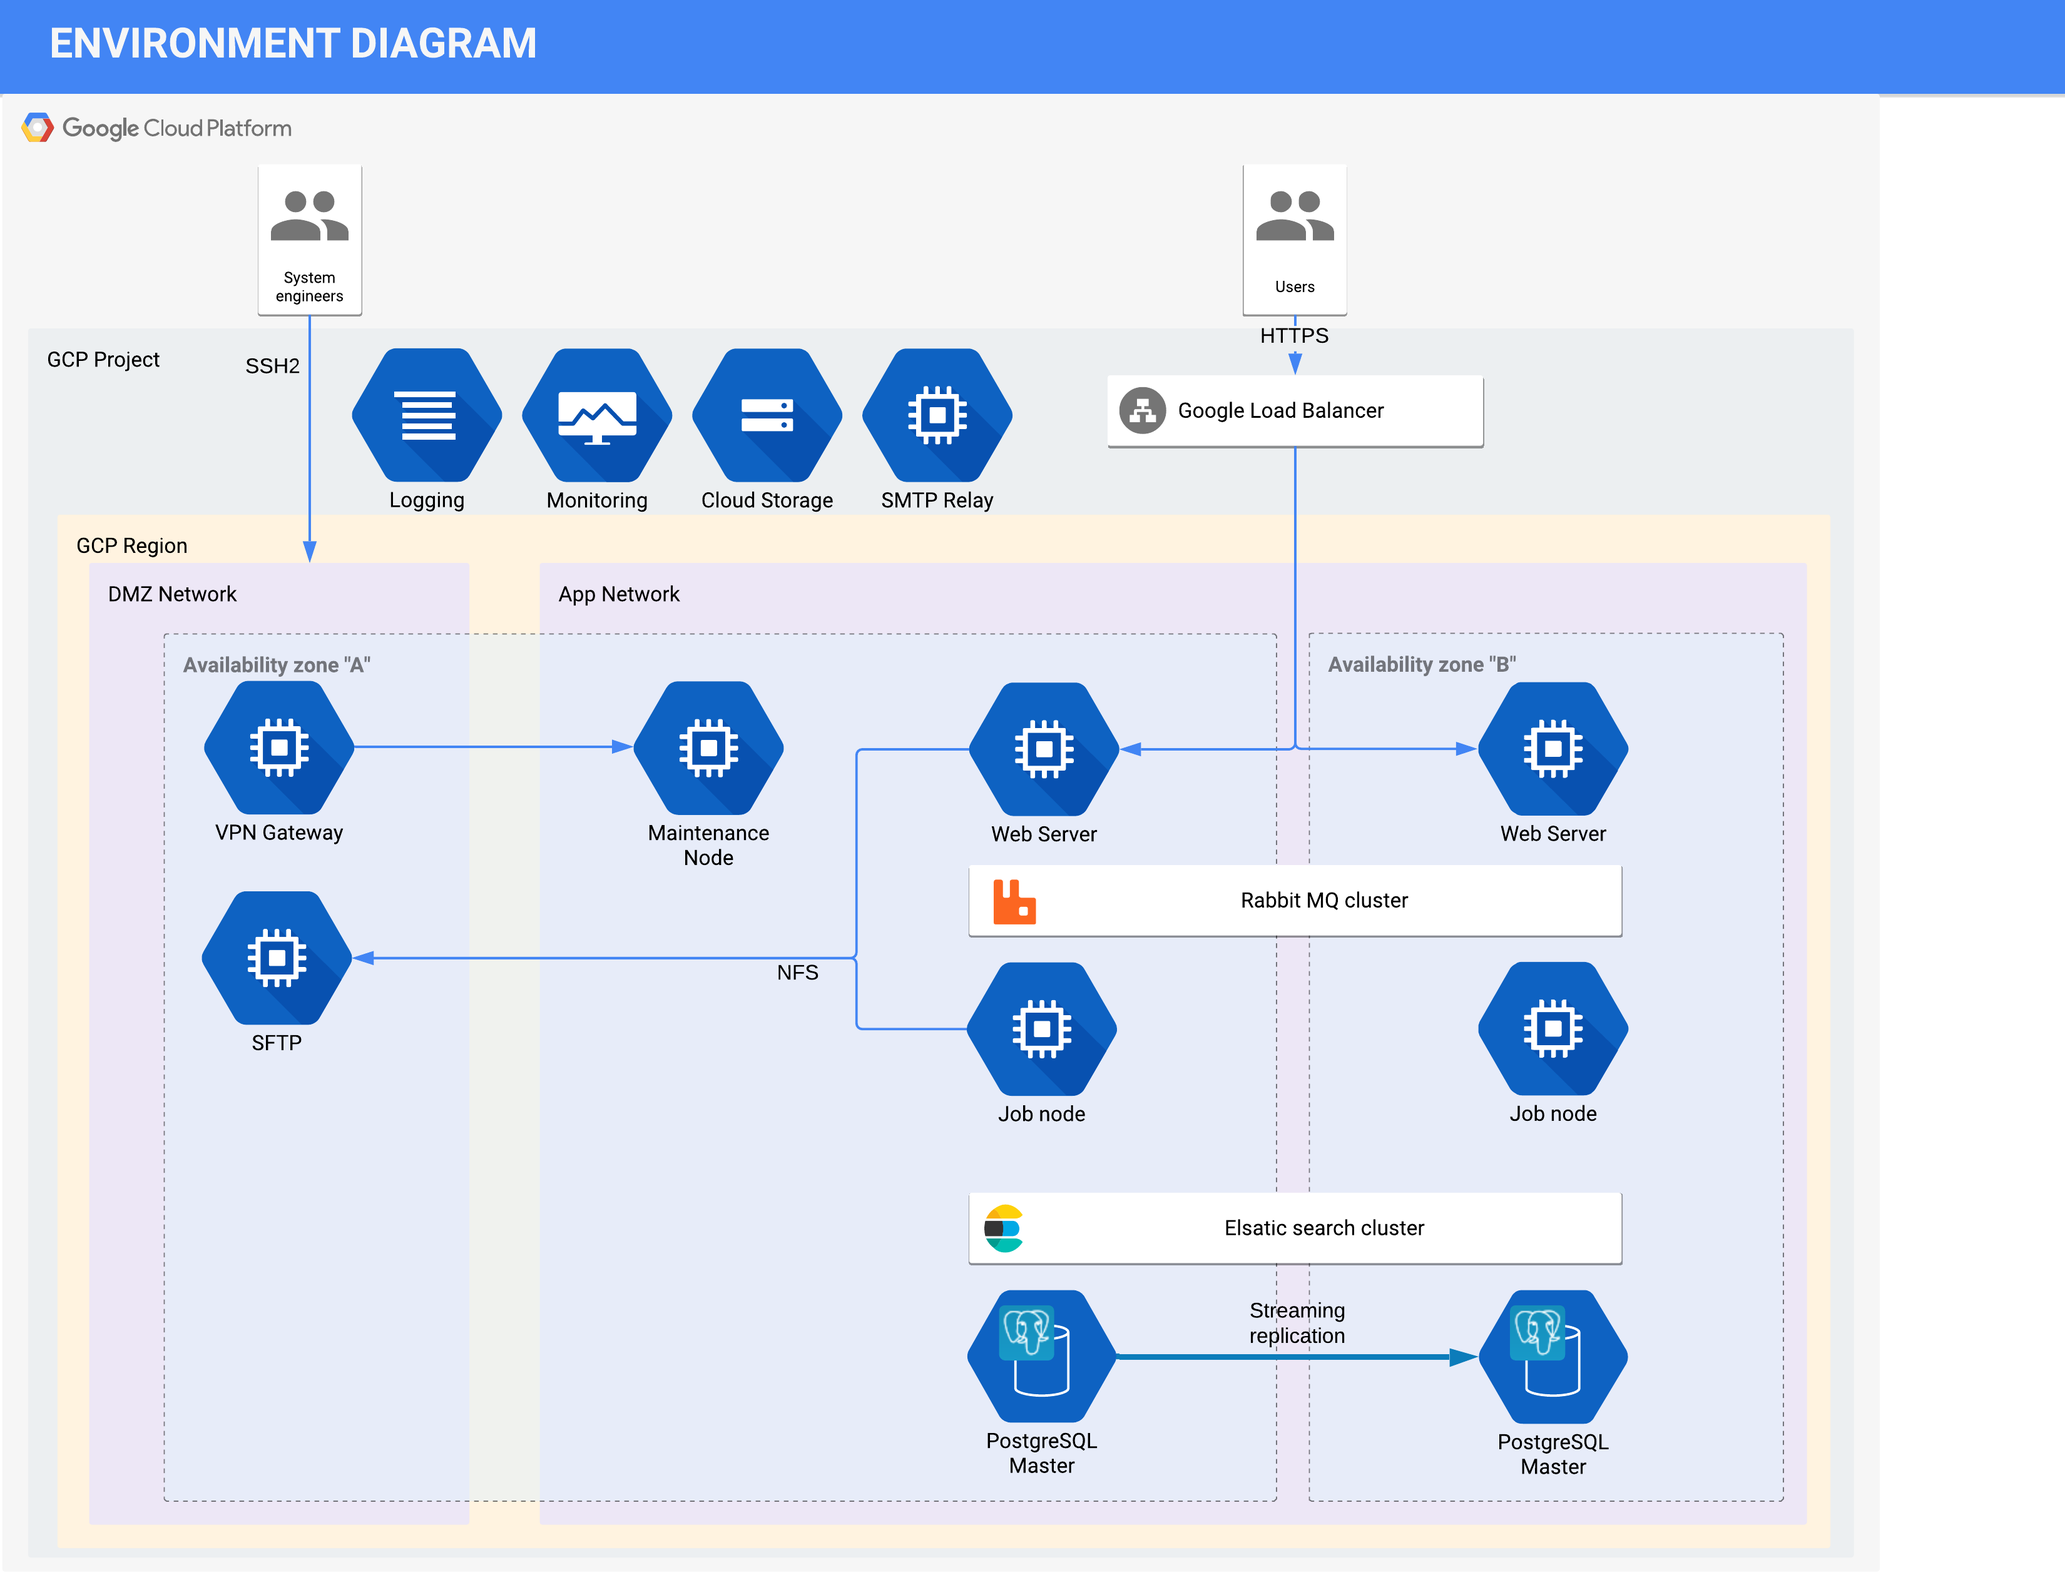
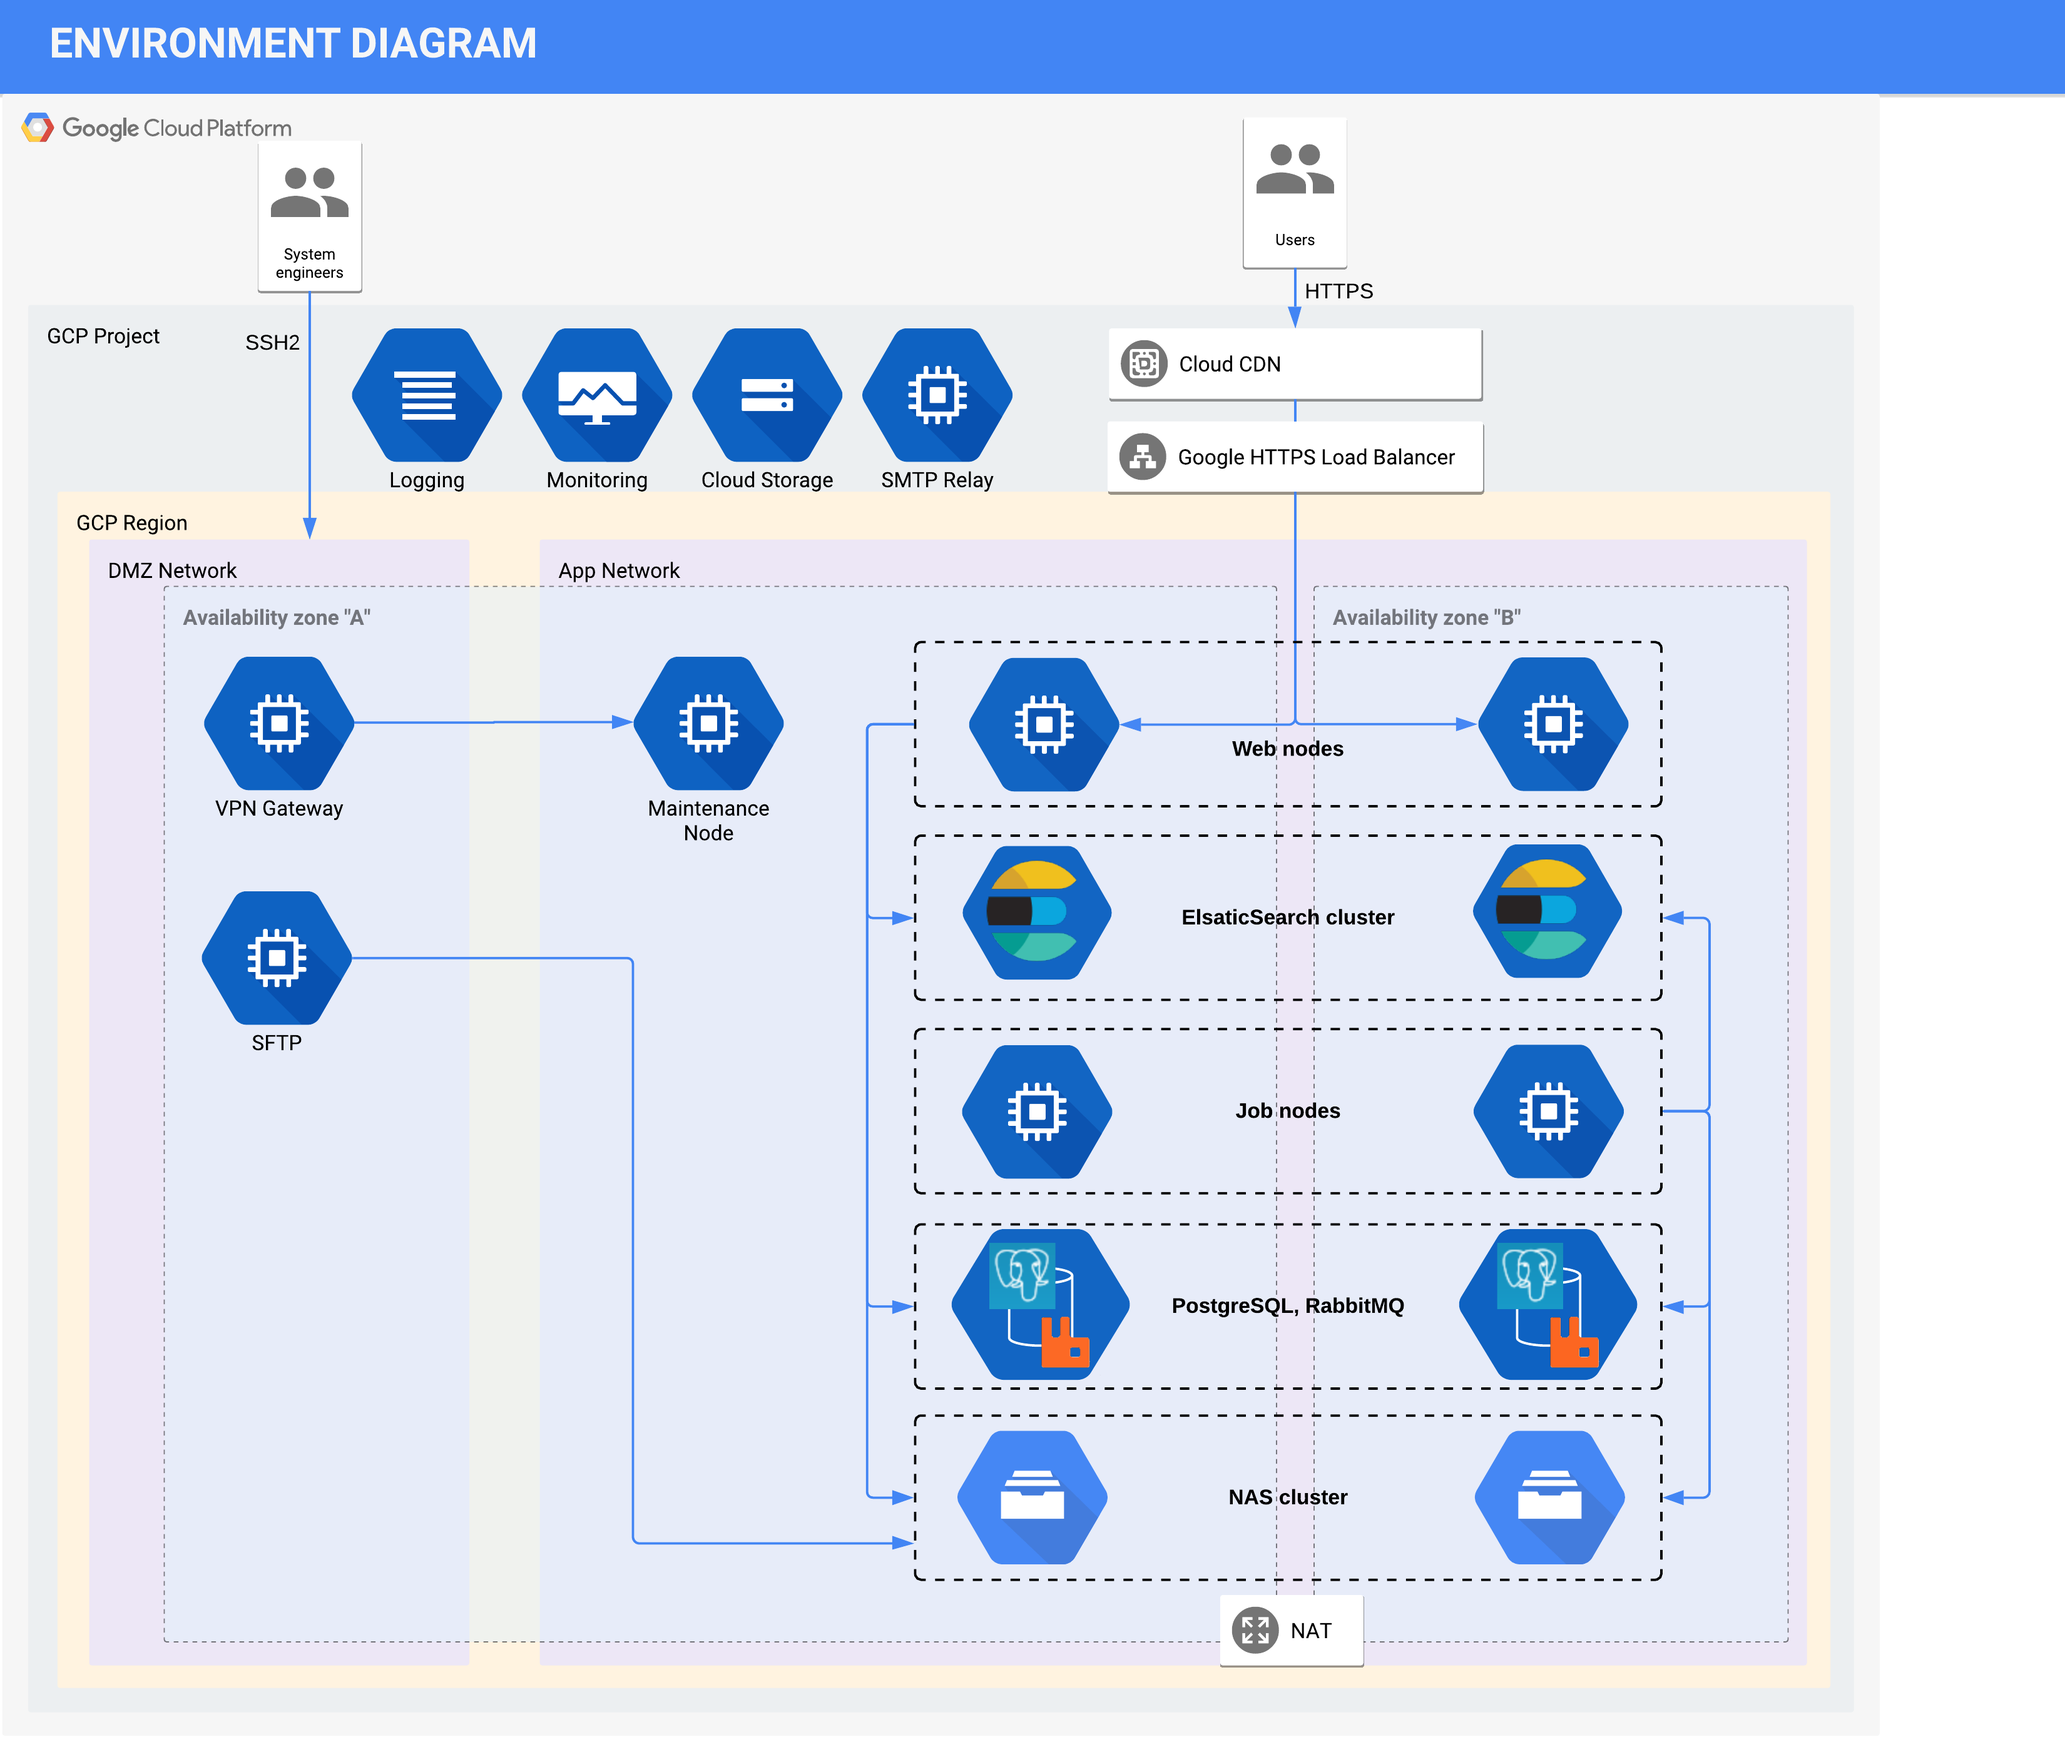
DOC-1749: Update Cloud Architecture diagram + add CDN section (#29213)
DOC-1749: Update Cloud Architecture diagram + add CDN section

diff --git a/cloud/architecture/index.rst b/cloud/architecture/index.rst
@@ -43,6 +43,15 @@ Redundancy is a system design that ensures all system components are duplicated.
 
 The OroCloud infrastructure uses fully redundant components and services for Oro application operations. Check out the following sections for details on how redundancy is achieved.
 
+Google CDN
+~~~~~~~~~~
+
+The content delivery network is the geographically distributed network of the caching proxy servers that help to improve response time for static content as well as provide high availability for service. Google CDN uses |edge servers distributed globally| and perfectly integrated with Google Cloud Platform logging and monitoring services. For more information, see |Google CDN| documentation.
+
+Oro customers also can use other CDN providers. Please contact Oro Support to check if your CDN is compatible with Oro application.
+
+
+
 Web Node
 ~~~~~~~~
 

diff --git a/include/include-links-cloud.rst b/include/include-links-cloud.rst
@@ -183,5 +183,10 @@ Links (Cloud)
 
    <a href="https://cloud.google.com/monitoring/charts/metrics-explorer?hl=en_US" target="_blank">Metrics Explorer</a>
 
+.. |edge servers distributed globally| raw:: html
 
+   <a href="https://cloud.google.com/cdn/docs/locations" target="_blank">edge servers distributed globally</a>
 
+.. |Google CDN| raw:: html
+
+   <a href="https://cloud.google.com/cdn" target="_blank">Google CDN</a>
